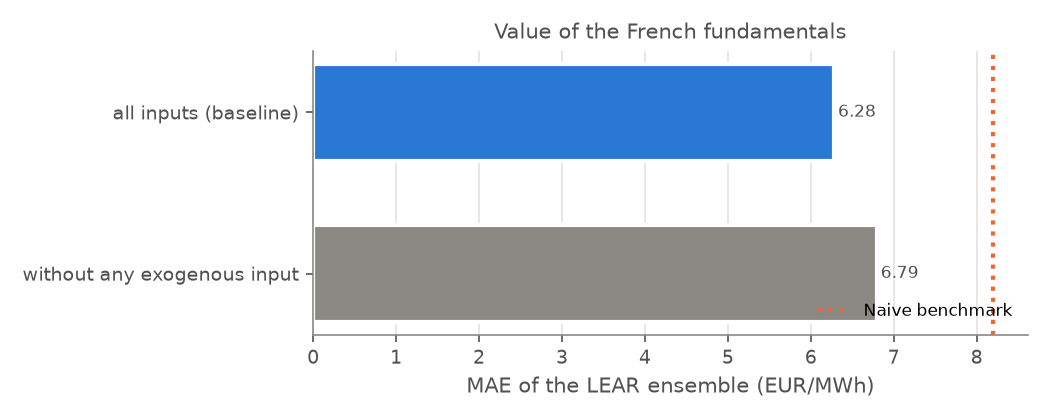
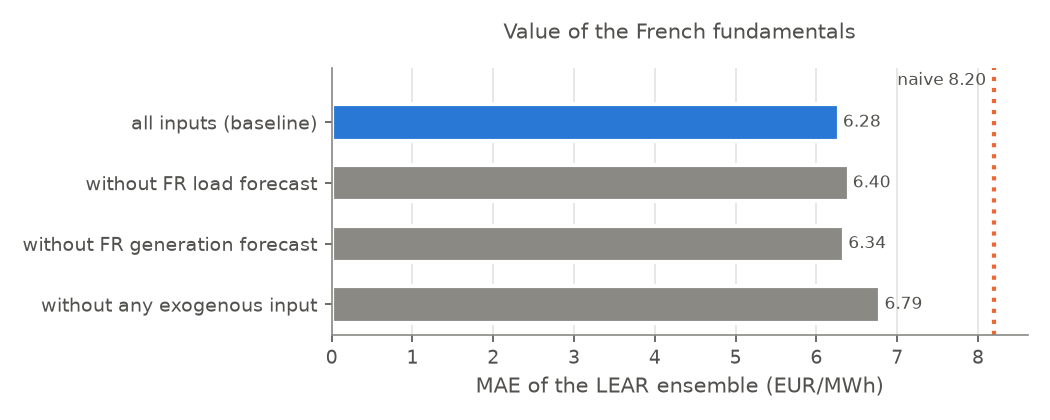
feat: final results, robustness tables and figures

diff --git a/scripts/make_report.py b/scripts/make_report.py
@@ -298,10 +298,20 @@ def main() -> None:
     ax.barh(labels, values, color=colors, height=0.6, edgecolor="white", linewidth=2)
     for y, v in enumerate(values):
         ax.text(v + 0.05, y, f"{v:.2f}", va="center", fontsize=8, color=INK)
-    ax.axvline(mae(real, naive), color=ORANGE, lw=2, ls=":", label="Naive benchmark")
+    naive_mae = mae(real, naive)
+    ax.axvline(naive_mae, color=ORANGE, lw=2, ls=":")
+    ax.text(
+        naive_mae - 0.1,
+        len(labels) - 0.45,
+        f"naive {naive_mae:.2f}",
+        ha="right",
+        va="bottom",
+        fontsize=8,
+        color=INK,
+    )
+    ax.set_ylim(-0.5, len(labels) - 0.1)
     ax.set_xlabel("MAE of the LEAR ensemble (EUR/MWh)", color=INK)
-    ax.set_title("Value of the French fundamentals", color=INK, fontsize=10)
-    ax.legend(frameon=False, fontsize=8, loc="lower right")
+    ax.set_title("Value of the French fundamentals", color=INK, fontsize=10, pad=14)
     fig.tight_layout()
     fig.savefig(FIG / "ablations.png")
     plt.close(fig)

diff --git a/results/summary.md b/results/summary.md
@@ -6,6 +6,8 @@
 | LEAR 1092 | 6.606 | 6.594 | 16.919 | 16.867 | 0.141 |
 | LEAR 1456 | 6.645 | 6.634 | 17.361 | 17.293 | 0.197 |
 | LEAR Ensemble | 6.278 | 6.140 | 14.966 | 14.546 | 0.881 |
+| LEAR 56, exog. lags D-1/D-2 (pre-2024 library) | 7.245 | 6.924 | 16.955 | 16.197 | 2.291 |
+| LEAR 84, exog. lags D-1/D-2 (pre-2024 library) | 7.285 | 6.798 | 17.255 | 15.954 | 2.469 |
 
 ## Accuracy on the test period (728 days)
 |  | MAE | RMSE | sMAPE_pct | rMAE |
@@ -47,8 +49,12 @@
 ## Calibration window
 |  | MAE | rMAE |
 |---|---|---|
+| 28 | 7.419 | 0.901 |
 | 56 | 7.226 | 0.878 |
 | 84 | 7.197 | 0.874 |
+| 182 | 7.100 | 0.863 |
+| 364 | 6.788 | 0.825 |
+| 728 | 6.527 | 0.793 |
 | 1092 | 6.606 | 0.803 |
 | 1456 | 6.645 | 0.807 |
 
@@ -56,6 +62,8 @@
 |  | MAE ensemble | MAE 56 | MAE 84 | MAE 1092 | MAE 1456 | delta vs baseline | DM p (baseline better) |
 |---|---|---|---|---|---|---|---|
 | all inputs (baseline) | 6.278 | 7.226 | 7.197 | 6.606 | 6.645 | nan | nan |
+| without FR load forecast | 6.400 | 7.343 | 7.407 | 6.664 | 6.727 | 0.121 | 0.000 |
+| without FR generation forecast | 6.345 | 7.436 | 7.356 | 6.520 | 6.588 | 0.067 | 0.004 |
 | without any exogenous input | 6.793 | 8.187 | 8.003 | 6.679 | 6.722 | 0.515 | 0.000 |
 
 ## Sub-periods
@@ -70,4 +78,3 @@
 | weekday peak 08-20h | 520.000 | 50.369 | 10.413 | 8.116 | 22.053 | 9.165 | 9.077 | 8.473 | 8.532 | 0.000 |
 | weekday off-peak | 520.000 | 37.626 | 6.635 | 5.068 | 23.616 | 5.860 | 5.779 | 5.290 | 5.286 | 0.000 |
 
-Missing experiments: ['lear_cw182', 'lear_cw28', 'lear_cw364', 'lear_cw728', 'lear_exoglags12_cw56', 'lear_exoglags12_cw84', 'lear_no_gen_fr_*', 'lear_no_load_fr_*']
